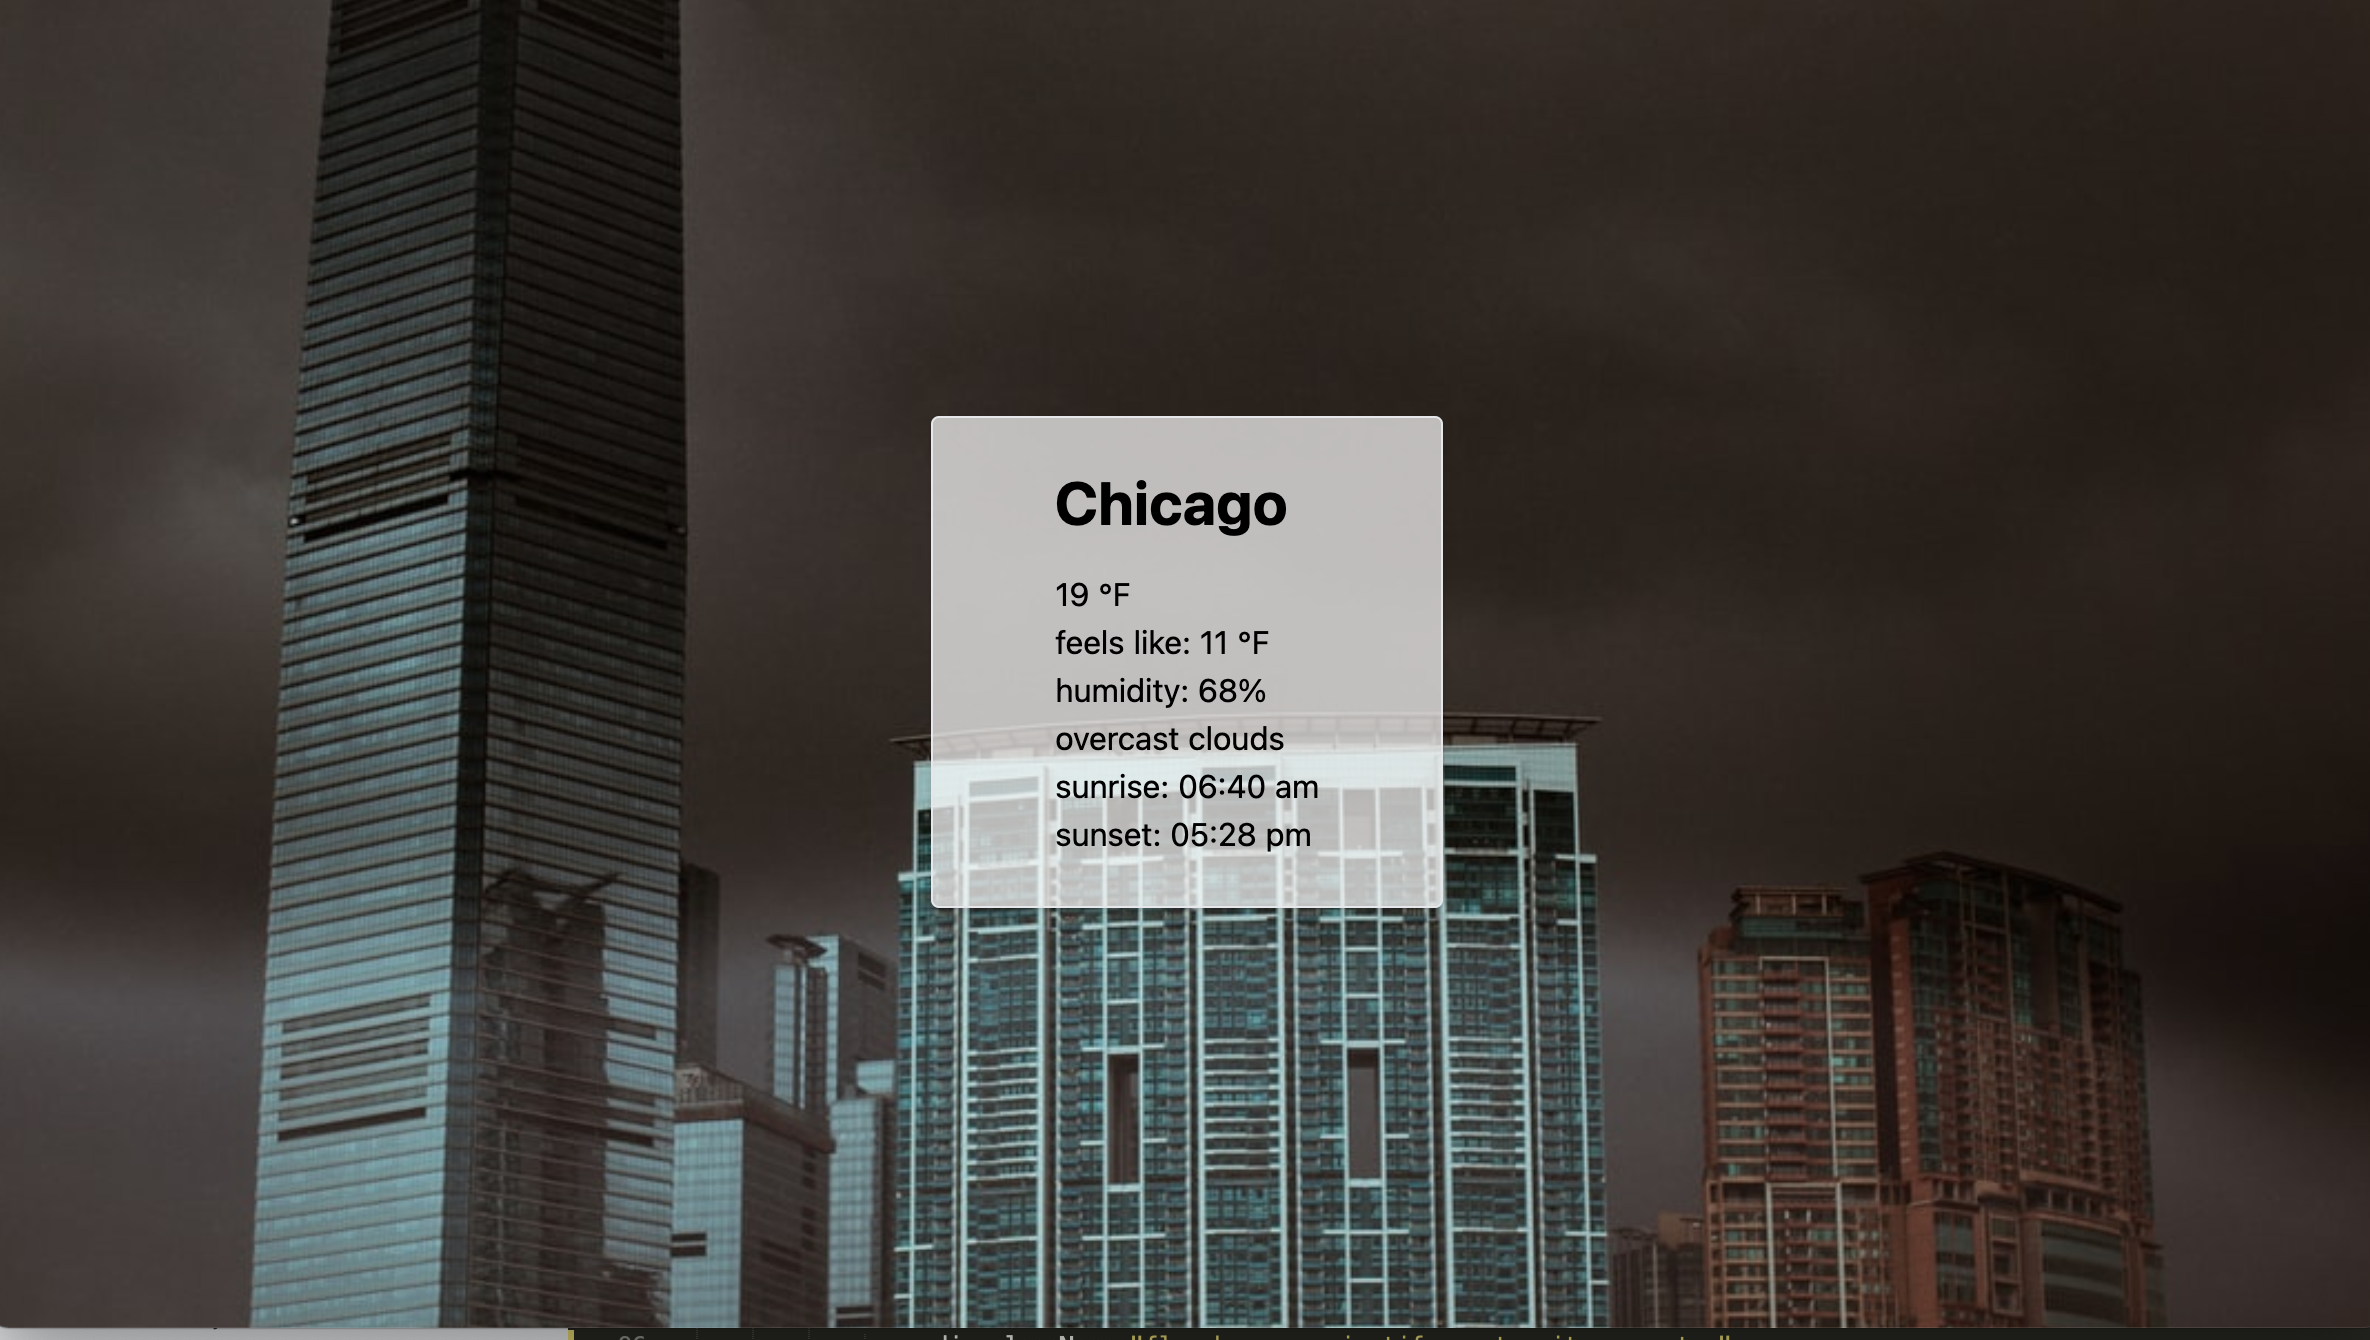
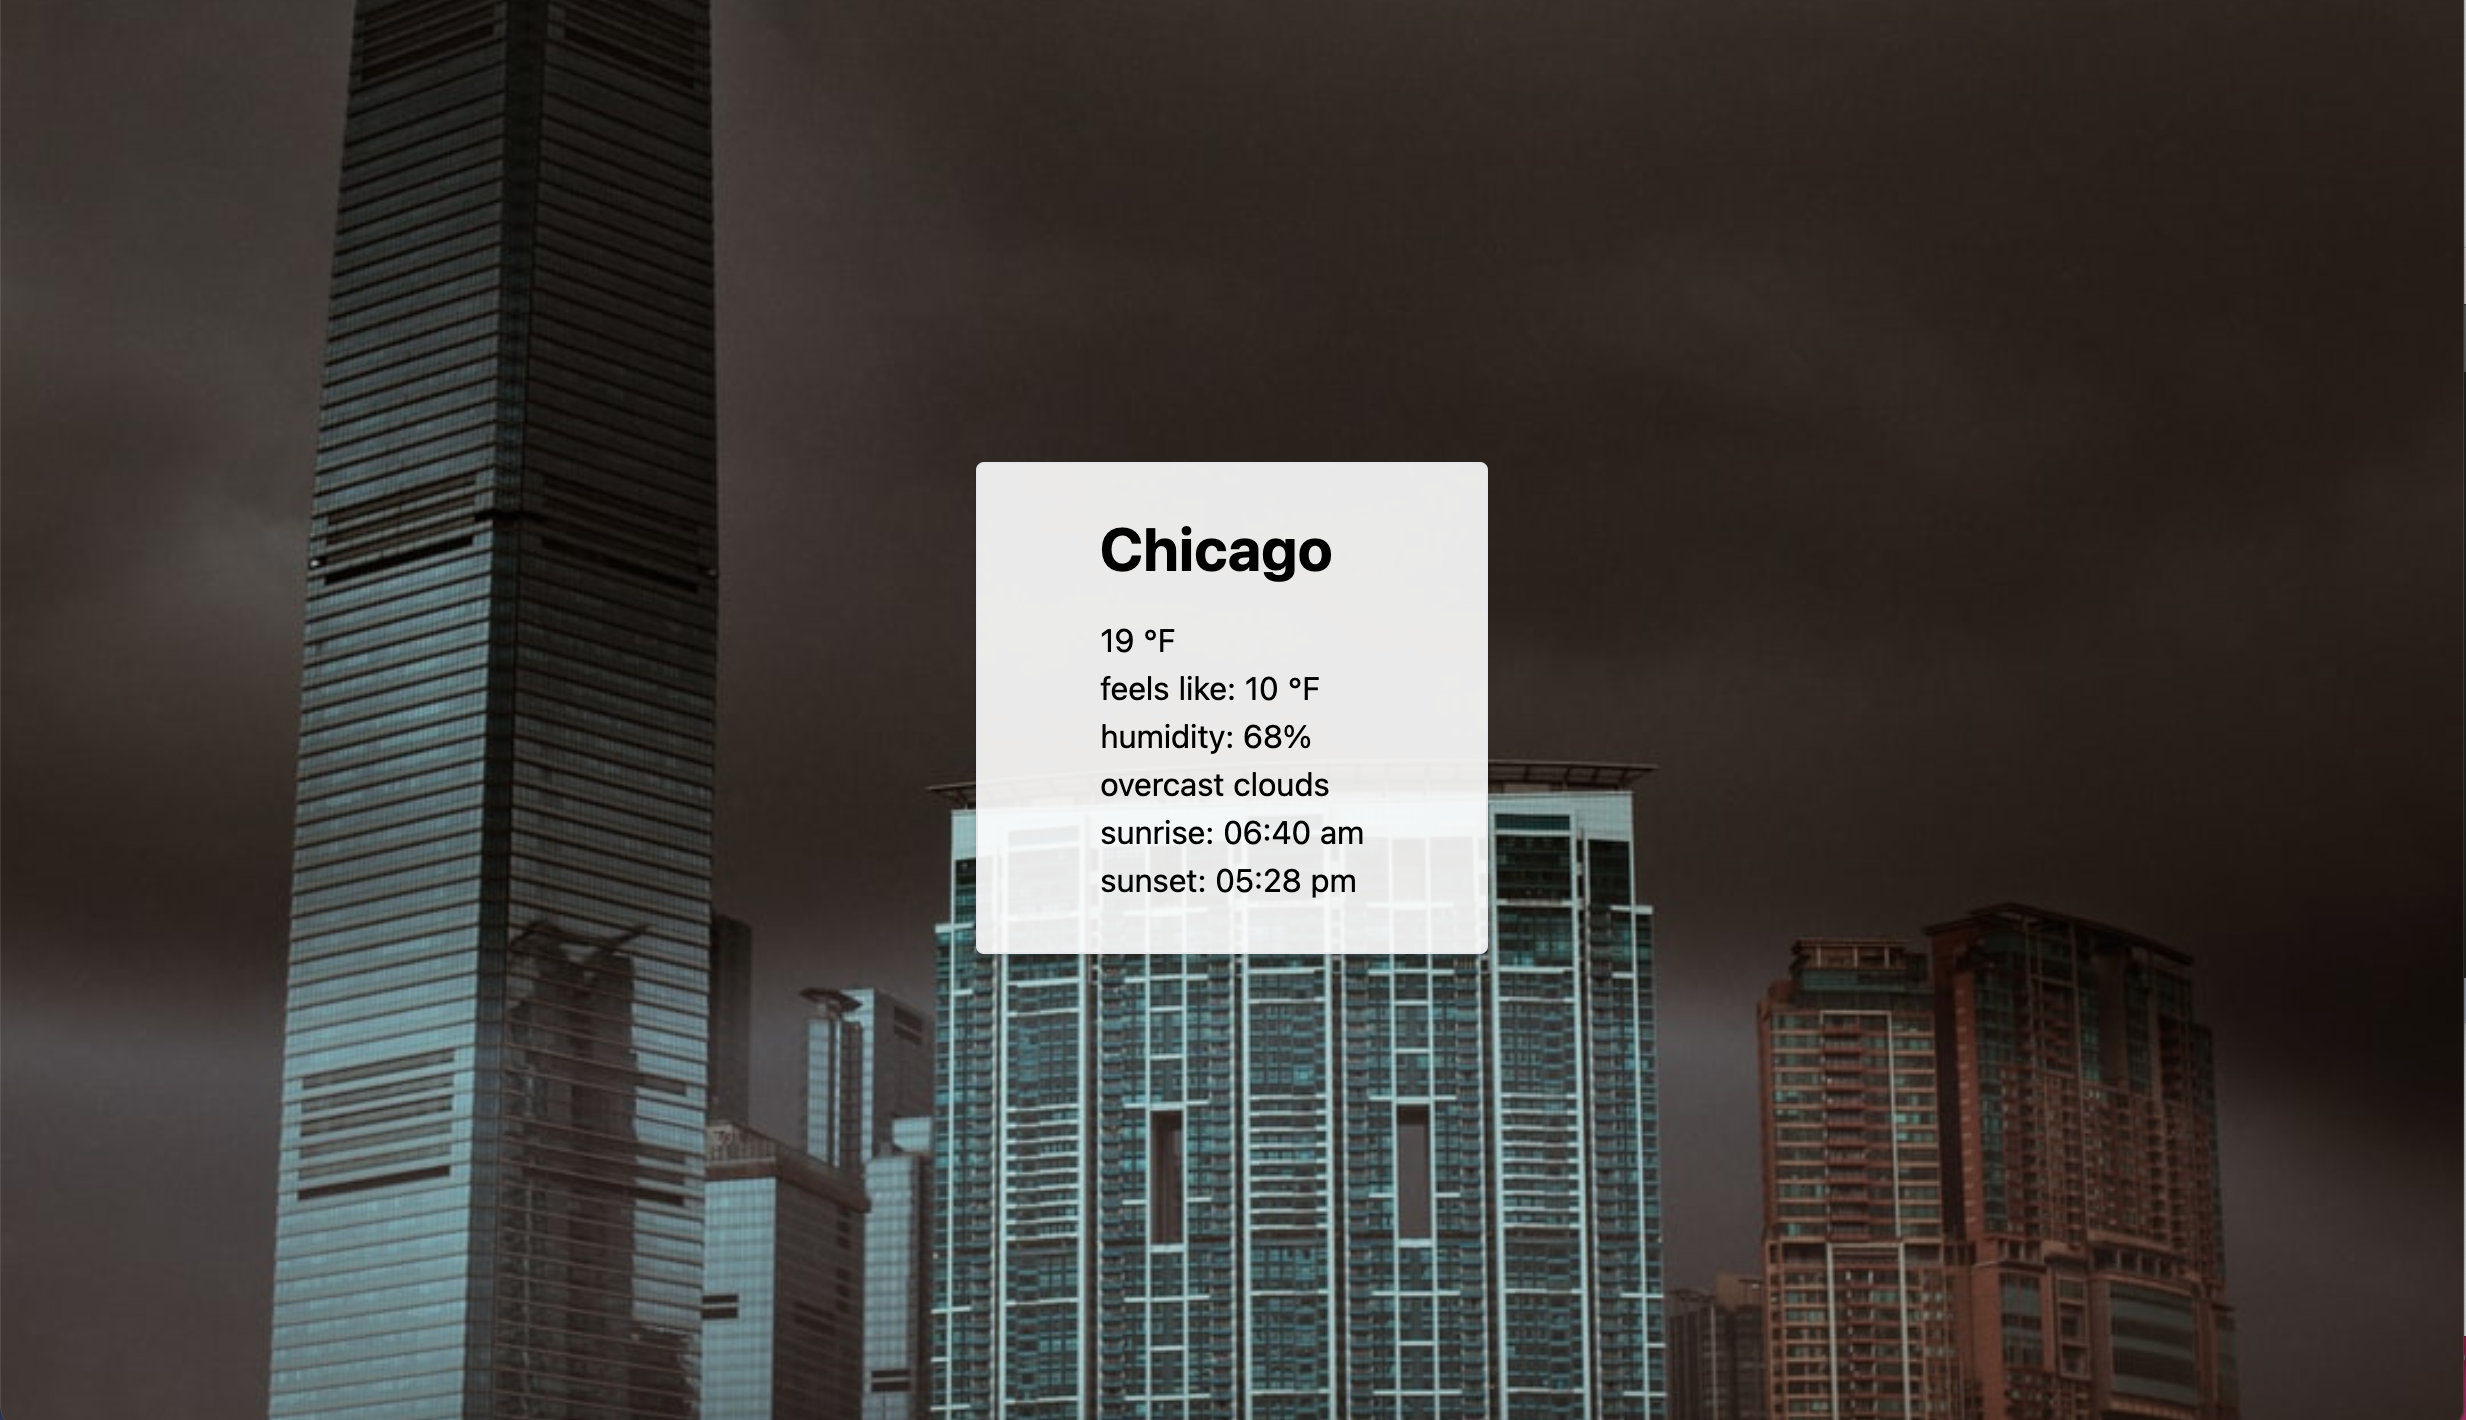
update to correct screenshot

diff --git a/src/components/CurrentWeather.js b/src/components/CurrentWeather.js
@@ -94,7 +94,7 @@ const CurrentWeather  = () => {
 	        	backgroundSize: `cover`,
 	        }}>
 	        	<div className="flex h-screen justify-center items-center">
-		        	<div className="flex justify-center items-center bg-white bg-opacity-70 rounded shadow border p-6 w-64">
+		        	<div className="flex justify-center items-center bg-white bg-opacity-90 rounded shadow border p-6 w-64">
 			       		<ul>  
 					        <li className="text-3xl font-bold mb-4 mt-0"> {city} </li>          
 					        <li> {tempF} &deg;F </li> 

diff --git a/src/components/apis/unsplash.js b/src/components/apis/unsplash.js
@@ -5,6 +5,6 @@ const PHOTO_ACCESS_KEY = process.env.REACT_APP_UNSPLASH_API_KEY
 export default axios.create({
 	baseURL: 'https://api.unsplash.com/',
 	headers: {
-		Authorization: 'Client-ID ${PHOTO_ACCESS_KEY}'
+		Authorization: `Client-ID ${PHOTO_ACCESS_KEY}`
 	}
 });

diff --git a/README.md b/README.md
@@ -7,6 +7,9 @@ Google Maps Geocode API
 Unsplash API
 TailwindCSS styling
 
+## screenshots
+![Weather App](public/Screen_Shot.png) 
+
 
 todo:
 - [ ] separate component logic into multiple files, use redux
